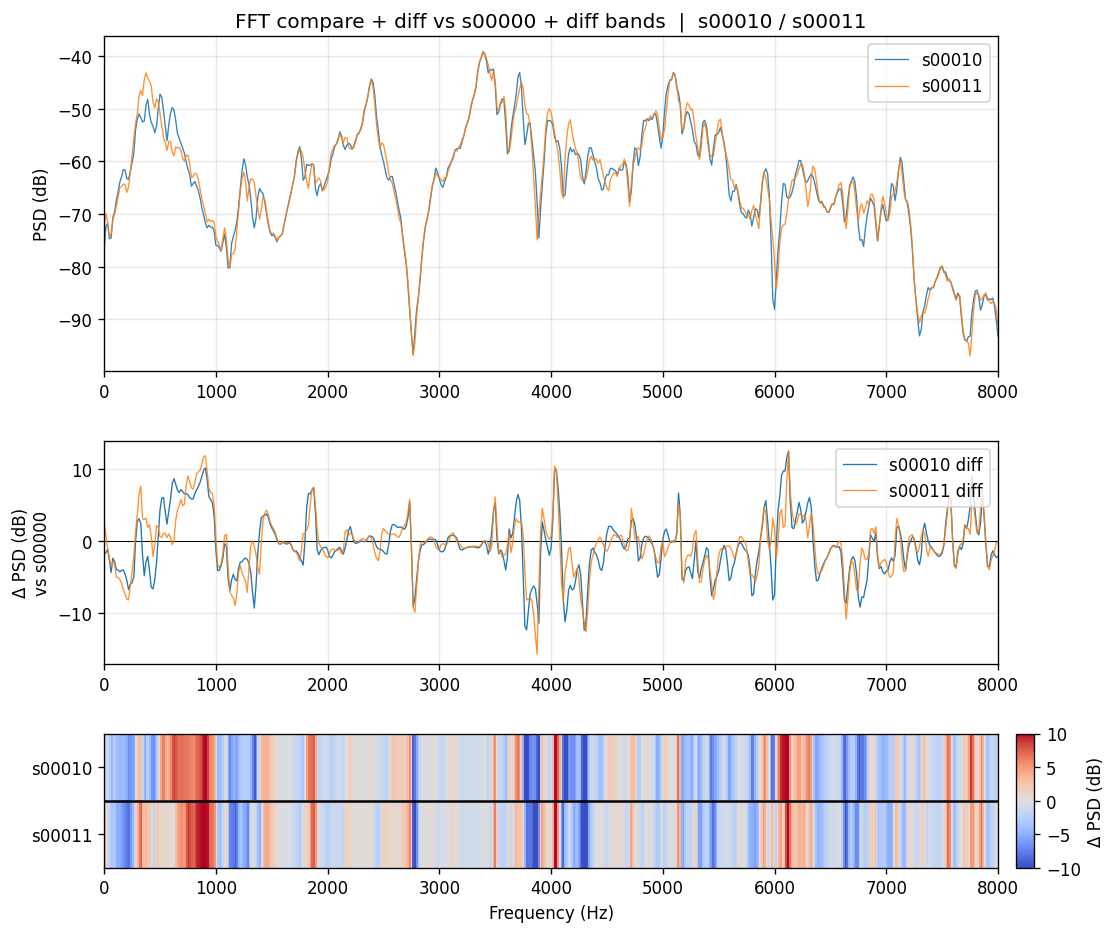
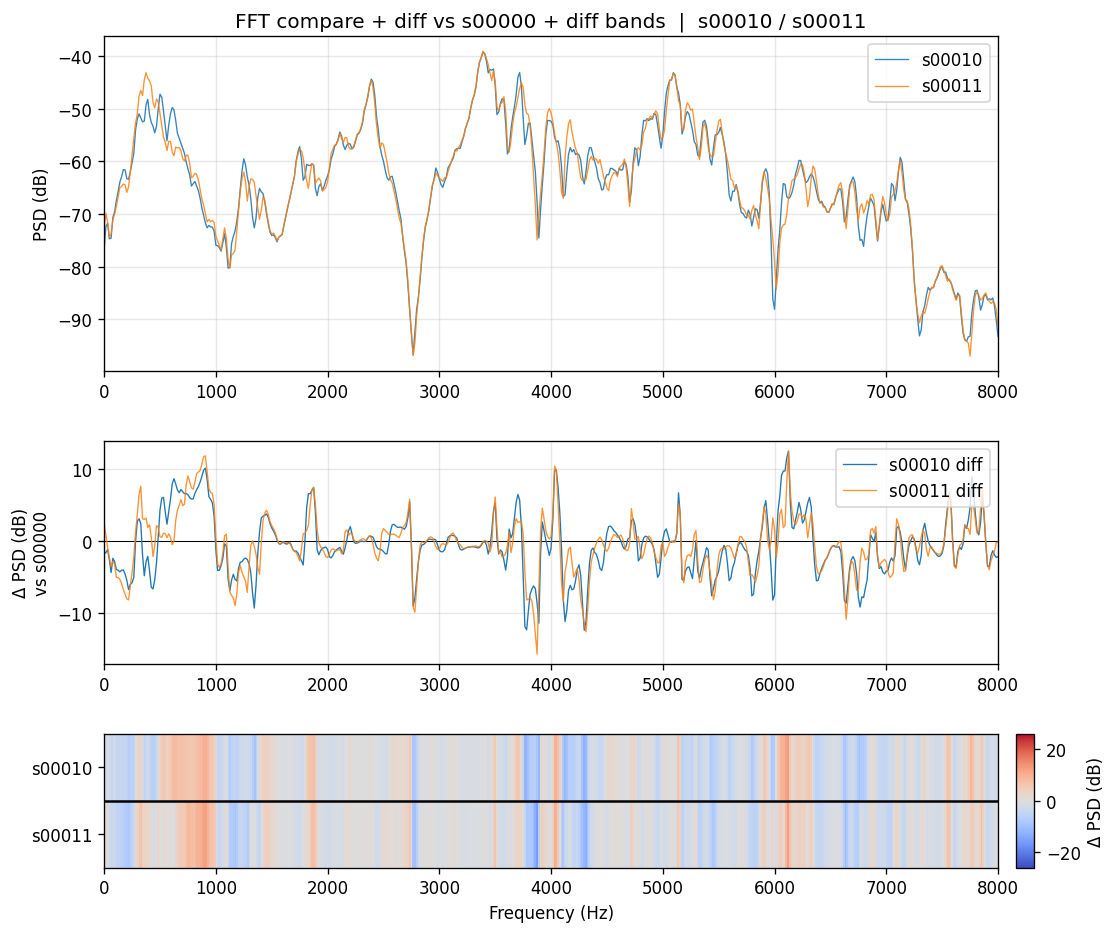
docs(figures): 帯カラーチャートの色域を全クラス無飽和の ±26 dB に調整
full_32_eval_v1 の全 31 状態 vs s00000 の diff を走査した結果、
最大 |Δ PSD| = 25.3 dB (s10110)。どの状態ペアの帯でも色がクリップしないよう
既定 --clim を 10 → 26 dB に変更し、s00010/s00011 図を再生成。

diff --git a/pc/gen_fftdiff_band_pair.py b/pc/gen_fftdiff_band_pair.py
@@ -34,9 +34,9 @@ from gen_fftdiff_band import (  # noqa: E402
     welch_psd_db,
 )
 
-# 帯カラーチャートの色域 (±dB)。1 ビット状態差の diff は ±10 dB 程度まで振れるため、
-# 1 ペア版 (gen_fftdiff_band.py) の ±6 dB より広く取る
-DEFAULT_CLIM_DB = 10.0
+# 帯カラーチャートの色域 (±dB)。full_32_eval_v1 の全 31 状態 vs s00000 の diff を
+# 走査した最大は 25.3 dB (s10110)。どのクラスの帯でも飽和しないよう ±26 dB とする
+DEFAULT_CLIM_DB = 26.0
 
 
 def main(argv=None) -> int:
